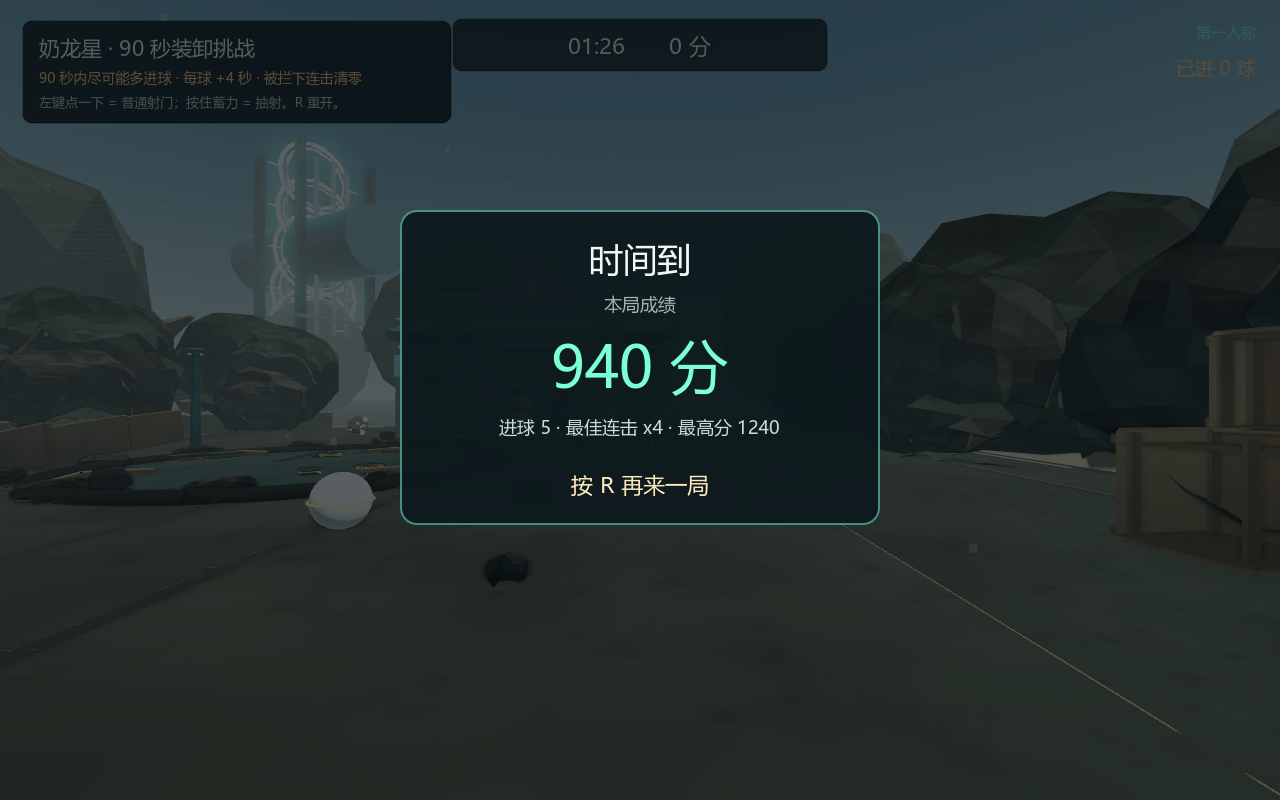
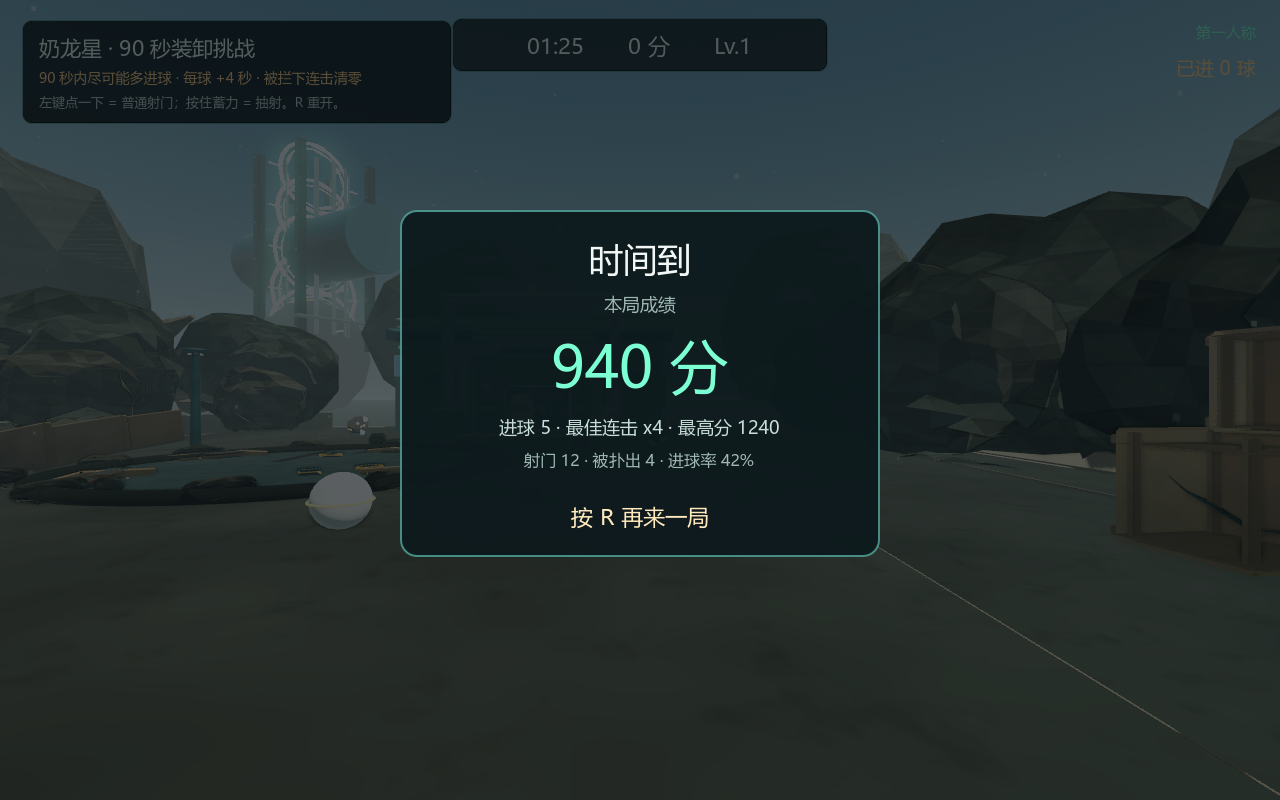
feat(gulu): pause menu, mute setting, per-round shot stats and keeper level

Changed region(s): [[0.375, 0.5625, 0.6875, 0.75], [0.4375, 0.0312, 0.5625, 0.0625], [0.3125, 0.625, 0.3438, 0.6562]]

diff --git a/game/previews/gulu_planet/HANDOFF.md b/game/previews/gulu_planet/HANDOFF.md
@@ -3,9 +3,21 @@
 > 多日任务续点。新会话先读本文件，再读 `STATUS.md` / `TESTING.md` / `BRIEF.md`。
 > 每次推进后更新「当前状态 / 下一步 / 恢复命令」，不要只依赖聊天记录。
 
-最后更新：2026-11-23（第六轮：奶龙读站位/假动作/性格；侧风默认关）
+最后更新：2026-11-23（第七轮：暂停/静音/统计/等级）
 
-## 2026-11-23 · 第六轮：奶龙“像在跟你玩”（当前）
+## 2026-11-23 · 第七轮：局内控制与统计（当前）
+
+- **暂停**：`P` 开关；鼠标已释放时 `Esc` 也能开；菜单里 `P`/`Esc` 继续。
+  `get_tree().paused` 冻结计时/物理/AI，表现层设 `PROCESS_MODE_ALWAYS` 保证按钮与键盘可用。
+- **暂停菜单**（`gulu_presentation.gd`）：继续比赛 / 重新开始 / 音效开·关，鼠标可点。
+- **静音**：`M` 或菜单按钮；设置写进 `user://gulu_record.cfg` 的 `[audio] muted`，重启保留。
+- **本局统计**：射门数 / 被扑出数；结算面板新增「射门 12 · 被扑出 4 · 进球率 42%」。
+- **奶龙等级**：每 2 球 +1，HUD 显示 `Lv.N`；提级时进球浮字带「奶龙 Lv.N」。
+- 自测：`--pause-test` **23/0**；回归 45/0、21/0、5/0、5/0、7/0、6/0；
+  性能 326 FPS / 1,171 DC；截图新增 `23_pause.png`。
+- 详见 `docs/GAMEPLAY_2026-11-23.md` 第 8 节。
+
+## 2026-11-23 · 第六轮：奶龙“像在跟你玩”
 
 - **读站位**：玩家在球 2.9 m 内且处在“球→门”方向时，奶龙读
   `sign(玩家z-球z)`；站定 0.40 s 才锁定，换边清零；锁定后站位偏 0.42 m + 重心/侧倾。
